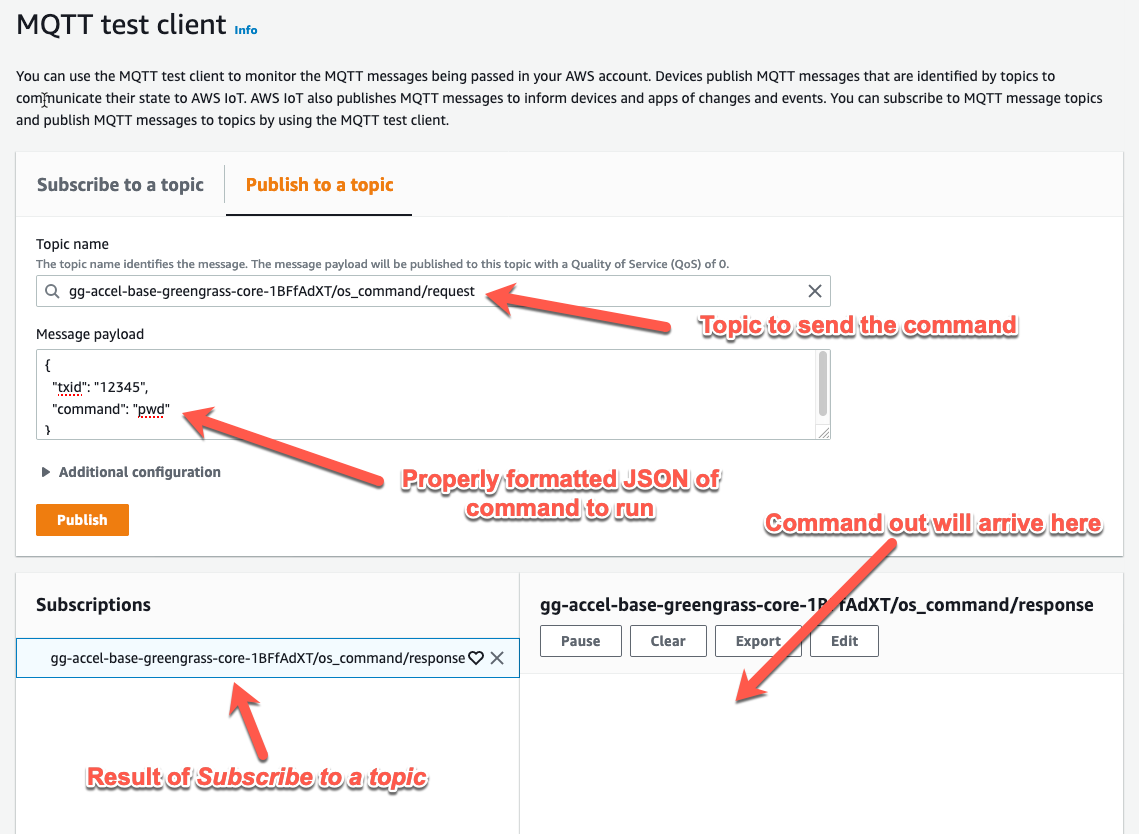
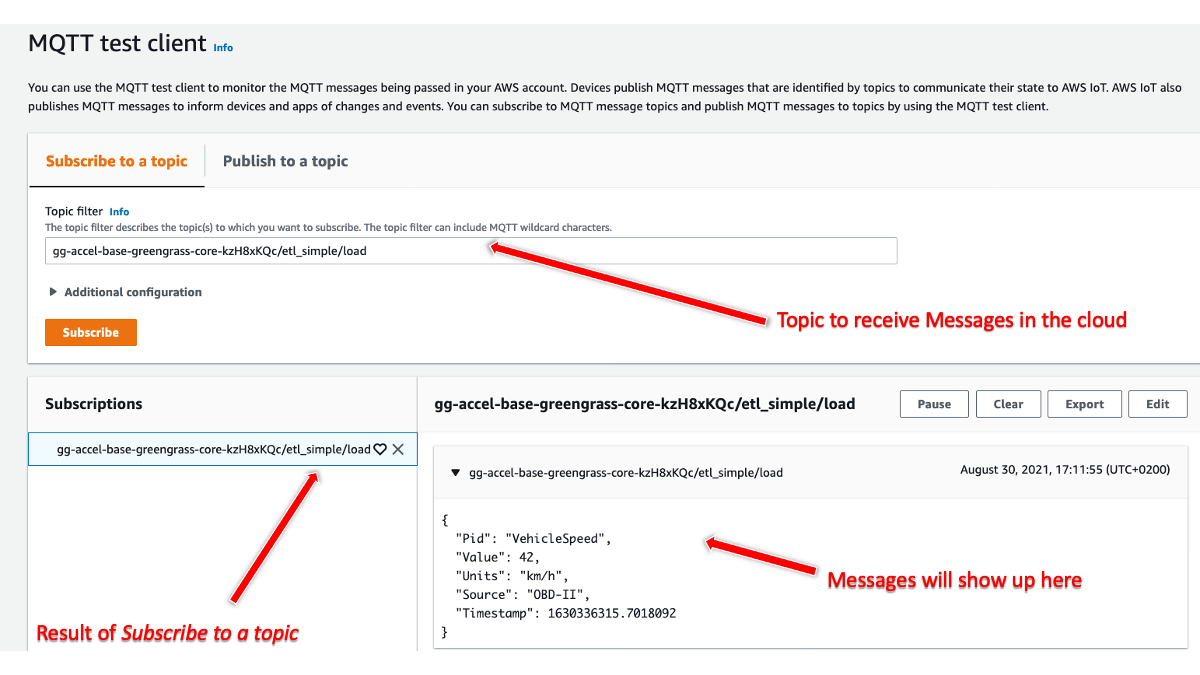
updated READMEs for ETL - missing: Design Pattern in ETL-Simple Readme

diff --git a/v2/etl_simple/README.md b/v2/etl_simple/README.md
@@ -1,27 +1,29 @@
-# AWS IoT Greengrass V2 Operating System Command Component
+# AWS IoT Greengrass V2 Extract, Transform, and Load Simplified Deployment
 
-This component, Operating System Command (OS Command), extends the capabilities of the [base](../base) accelerator stack by adding a new thing group, Greengrass component, and Greengrass deployment for the existing Greengrass core. The functionality of the `ggAccel.os_command` component provides the ability to publish an operating system command via an MQTT message to a topic on AWS IoT Core, have it execute on the Greengrass core device, and return the commands output to a different MQTT topic. By publishing the command on topic and subscribing to the response on another topic, you can remotely issue commands and receive results via the cloud.
+This deployment, Extract, Transform, and Load Simplified (ETL Simple), extends the capabilities of the [base](../base) accelerator stack by adding a new thing group, three Greengrass components, and Greengrass deployment for the existing Greengrass core.
+
+The three components are called `ggAccel.etl_simple.extract` (Extract Component), `ggAccel.etl_simple.transform` (Transform Component), and `ggAccel.etl_simple.load` (Load Component). The Extract component reads example OBD II messages from the file `events1.txt` and publishes them to a local topic. The Transform component reads from that topic, transforms the message into human-readable JSON messages and publishes them locally using [Interprocess Communication](https://docs.aws.amazon.com/greengrass/v2/developerguide/interprocess-communication.html). The Load Process reads from that topic and publishes the messages to AWS IoT Core.
 
 This is deployed as a [nested stack](https://docs.aws.amazon.com/AWSCloudFormation/latest/UserGuide/using-cfn-nested-stacks.html) where the root stack is the base implementation accelerator. This stack creates the following resources:
 
 - Thing group - A group specific to this accelerator, the existing thing is added and targeted for the new component
 - IoT policy - An AWS IoT policy attached to the existing certificate extending the ability to publish and subscribe on the topics used by the component
-- Greengrass component - The application logic (recipe and artifacts) deployable to Greengrass cores. Part of the Greengrass deployment.
-- Greengrass deployment - The Greengrass component targeted for the new Thing group.
+- Three Greengrass component - The application logic (recipe and artifacts) for each component deployable to Greengrass cores. Part of the Greengrass deployment.
+- Greengrass deployment - The Greengrass components targeted for the new Thing group.
 
-Once this is fully deployed, the Greengrass core device will receive and deploy the component immediately or when next started.
-
-
+Once this is fully deployed, the Greengrass core device will receive and deploy the components immediately or when next started.
 
 > **NOTE:** This accelerator is intended for educational use only and should not be used as the basis for production workloads without fully reviewing the component and it's artifacts.
 
-# OS Command Use Case
+# Extract, Transform, and Load Use Case
 
-This accelerator demonstrates the capability for a local Python application to receive commands from the Cloud, run them locally, and then publish back the results to another topic in the Cloud. It demonstrates Cloud command and control capability to a remote device, the ability for a local application to interact with IPC topics, execute commands locally, and response to successful or unsuccessful commands.
+Imagine we want to collect from a vehicle multiple times per-second, transform and compute into a friendly formation, and when connected, send the messages in the cloud. As the vehicle travels into areas without Internet coverage, we want to ensure the local data collection continues and messages are ultimately stored in the cloud once coverage is restored.
 
-In practical operation, it can be used to query the status of host operating system, download and upgrade software, or any other activities normally performed from the host operating systems command line interface (CLI). It can also be used as an example for performing command and control operations originating from the cloud and taking local action.
+In this simplified example, the `events1.txt` file contains the messages and acts, together with the Extract Component, as OBD-II data source. The content of every messages is transformed from the 8-bye OBD-II values (example: 1562433539.743263 7E8 0341055600000000)into a readable JSON formatted message.
 
-# Design Pattern
+Finally, individual records are to AWS IoT Core via MQTT.
+
+# Design Pattern - TODO
 
 The following architecture shows the deployment of this accelerator (aligned to the base implementation).
 
@@ -35,7 +37,7 @@ The following architecture shows the deployment of this accelerator (aligned to 
 # Folder Structure
 
 ```text
-os_cmd
+etl_simple
 ├── README.md             <--- this file
 ├── cdk                   <--- builds and deploys CloudFormation to cloud
 │   ├── bin
@@ -49,7 +51,7 @@ os_cmd
 │   └── tsconfig.json
 ```
 
-As a nested stack, this uses CDK to build and deploy the resources. As it uses CDK constructs from the `base` stack via relative paths, do not move this directory without first updating the paths in `lib/OsCommandStack.ts` first.
+As a nested stack, this uses CDK to build and deploy the resources. As it uses CDK constructs from the `base` stack via relative paths, do not move this directory without first updating the paths in `lib/EtlSimpleStack.ts`.
 
 If using Docker, continue to use the `base/docker` directory for starting and stopping the container.
 
@@ -67,16 +69,16 @@ The following is a list of prerequisites to deploy the accelerator:
 
 1. The base implementation stack must be deployed. It is also recommended to configure and test the base implementation before deploying this stack.
 
-## Create and Launch the Accelerator Locally
+## Create and Launch the Accelerator
 
 This approach uses your local system for installation and running the accelerator, but the same commands can be used if testing from AWS Cloud9.
 
-1. Change into the `v2/os_cmd/cdk/` directory for the accelerator, then build and deploy the CloudFormation stack:
+1. Change into the `v2/etl_simple/cdk/` directory for the accelerator, then build and deploy the CloudFormation stack:
 
    > **NOTE:** The first time `cdk deploy` is run, it will take longer as there are Docker images required to build some of the resources. You will see Docker-related messages in your terminal session. Subsequent runs will only take a few additional seconds.
 
    ```bash
-   cd aws-iot-greengrass-accelerators/v2/os_cmd/cdk
+   cd aws-iot-greengrass-accelerators/v2/etl_simple/cdk
    npm install
    npm run build
    # replace PROFILE_NAME with your specific AWS CLI profile that has username and region defined.
@@ -84,146 +86,27 @@ This approach uses your local system for installation and running the accelerato
    cdk --profile PROFILE_NAME deploy --context baseStack="gg-accel-base"
    ```
 
-   The result of a successful deployment will look like this:
+   The result of a successful deployment will look similar to this:
 
    ```bash
-   ✅  gg-accel-os-command
+   ✅  gg-accel-etl-simple
    
    Outputs:
-   gg-accel-os-command.RequestTopic = gg-accel-base-greengrass-core-1BFfAdXT/os_command/request
-   gg-accel-os-command.ResponseTopic = gg-accel-base-greengrass-core-1BFfAdXT/os_command/response
+   gg-accel-etl-simple.CloudPublishTopic = gg-accel-base-greengrass-core-kzH8xKQc/etl_simple/load
    Stack ARN:
-   arn:aws:cloudformation:us-west-2:123456789012:stack/gg-accel-os-command/82df9e50-fa21-11eb-ba37-02268e8a52f9
+   arn:aws:cloudformation:eu-central-1:594598670825:stack/gg-accel-etl-simple/870a6f50-09a3-11ec-a262-0ad1fb9d7ee6
    ```
 
-At this point the CloudFormation stack is deployed and if the Greengrass core is running, it will have received the new deployment. Copy the _Request_ and _Response_ topics for use when sending and receiving MQTT messages.
+At this point the CloudFormation stack is deployed and if the Greengrass core is running, it will have received the new deployment. Copy the _CloudPublishTopic_ topic for use when processing the MQTT messages in the Cloud.
 
 ## Investigating the Accelerator
 
 Once deployed, you can use either Test client from the AWS IoT Core console or via an MQTT client where you can publish and subscribe to topics. The examples below use the Test client.
 
-First, create a *subscription* to the `core-name/os_command/response` topic from the previous section. This subscription will allow us to receive the *response* from an issues command. Next, select the publish tab and paste in`.../os_command/request. Finally, enter a command and select Publish.
+Create a *subscription* to the `core-name/etl_simple/load` topic from the previous section. This subscription will allow us to receive the *transformed message* from the locally running processes.
 
 ![](docs/test_client.png)
 
-
-
-With all of this setup, you can send commands to the component and receive the response. Here are a couple commands (message payloads) to monitor how the component deals with different attributes and format such as invalid JSON.
-
-### General command
-
-This command will return the current working directory of the component.
-
-**Message payload**
-
-```json
-{
-  "txid": "12345",
-  "command": "pwd"
-}
-```
-
-**Command response**
-
-```json
-{
-  "response": "/greengrass/v2/work/ggAccel.os_command\n",
-  "txid": "12345",
-  "return_code": 0
-}
-```
-
-
-
-### Long response command (JSON)
-
-This command will return the contents of a directory listing in `/etc` as a serialized JSON string.
-
-**Message payload**
-
-```json
-{
-  "txid": "12345",
-  "command": "ls -ltr /etc"
-}
-```
-
-**Command response**
-
-```json
-{
-  "response": "total 1128\n-rw-r--r-- 1 root root 670293 Jun  7  2013 services\n-rw-r--r-- 1 root root    233 Jun  7  2013 printcap\n...CONTENT_SHORTENED---------- 1 root root    314 Aug 16 19:49 gshadow\n",
-  "txid": "12345",
-  "return_code": 0
-}
-```
-
-
-
-### Long response command (TEXT)
-
-This command will return the contents of a directory listing in `/etc` in human readable output.
-
-**Message payload**
-
-```json
-{
-  "txid": "12345",
-  "command": "ls -ltr /etc",
-  "format": "text"
-}
-```
-
-**Command response**
-
-```text
-TX_ID: 12345
-RETURN_CODE: 0
-RESPONSE:
-total 1128
--rw-r--r-- 1 root root 670293 Jun  7  2013 services
--rw-r--r-- 1 root root    233 Jun  7  2013 printcap
--rw-r--r-- 1 root root      0 Jun  7  2013 motd
-...CONTENT_SHORTENED
----------- 1 root root    314 Aug 16 19:49 gshadow
-```
-
-### Invalid command
-
-This command will return an error for missing attributes.
-
-**Message payload**
-
-```json
-{
-  "message": "Hello from AWS IoT Core"
-}
-```
-
-**Command response**
-
-```json
-{
-  "response": "The attributes 'txid' and 'command' missing from request",
-  "return_code": 255
-}
-```
-
-
-
-As you run there and other commands, review the log file output. Also, the main Python code located here:
-
-````
-aws-iot-greengrass-accelerators/v2/base/cdk/components/ggAccel.example.HelloWorld/artifacts/ggAccel.example.HelloWorld/1.0.0/hello_world.py
-````
-
-Has additional details on the `format` and `timeout` attributes.
-
-By investigating the component's recipe file, artifacts, and and the commands that create and publish the component via the CDK, you should now have a better understanding of:
-
-- Command and control from AWS IoT Core to a running component on Greengrass
-- How the component can interact with local system resources
-- Using language dependencies either at the operation system level or within the artifact folder to develop feature rich components
 
 ## Accelerator Cleanup
 
@@ -238,7 +121,7 @@ To stop and completely remove this accelerator, follow these steps:
 1. With the container stopped, change to the component's CDK directory and issue the command to _destroy_ the CloudFormation stack:
 
    ```bash
-   cd aws-iot-greengrass-accelerators/v2/os_cmd/cdk
+   cd aws-iot-greengrass-accelerators/v2/etl_simple/cdk
    # For Cloud9
    cdk destroy --context baseStack="gg-accel-base"
    # For locally running (replace PROFILE_NAME with one used to create stack)
@@ -246,9 +129,9 @@ To stop and completely remove this accelerator, follow these steps:
    cdk destroy --profile PROFILE_NAME --context baseStack="gg-accel-base"
    ```
 
-   > **NOTE:** This will only destroy the `os_cmd` component resources and not the base stack. Also, since the component has already been deployed to the Greengrass core, it will continue to run unless it is locally delete via the `greengrass-cli`, or the Greengrass configuration is reset.
+   > **NOTE:** This will only destroy the `etl_simple` component resources and not the base stack. Also, since the component has already been deployed to the Greengrass core, it will continue to run unless it is locally delete via the `greengrass-cli`, or the Greengrass configuration is reset.
 
-   At this point, all `os_cmd` resources have been deleted.
+   At this point, all `etl_simple` resources have been deleted.
 
 1. Review any CloudWatch Logs log groups and delete these if needed.
 
@@ -263,4 +146,4 @@ In its current form, no. This component is not suitable for production workloads
 
 ## Implementation Notes
 
-The OS Command component is a Python based script that uses the IPC mechanism of the Nucleus to subscribe and publish to set topics in AWS IoT Core. It is a long running process that will process each individual message separately.
+The ETL Simple components are Python based scripts that uses the IPC mechanism of the Nucleus to subscribe and publish to set topics locally and in AWS IoT Core. They are long running process that will process each individual message separately.

diff --git a/README.md b/README.md
@@ -14,6 +14,8 @@ The current V2 accelerators are:
   - This accelerator deploys a single AWS IoT Greengrass core device as an AWS CDK constructed AWS CloudFormation stack, with all required AWS IoT, IAM, and AWS IoT Greengrass resources. It also creates a single _Hello World_ [component](https://docs.aws.amazon.com/greengrass/v2/developerguide/manage-components.html) and [deployment](https://docs.aws.amazon.com/greengrass/v2/developerguide/manage-deployments.html) for testing purposes.
 - [Operating System Command Execution](v2/os_cmd)
   - This accelerator deploys additional functionality on to the _Base Implementation_ stack to demonstrate sending an operating system command as an MQTT message from AWS IoT Core, running the command locally, and publishing back the command output to another MQTT topic in the cloud.
+- [Extract, Transform, and Load  - Simple Implementation](v2/etl_simple)
+  - This accelerator deploys additional functionality on to the _Base Implementation_ stack to demonstrate how to extract, transform, and load (ETL) data from a local device to the cloud. This accelerator breaks the three steps into discrete processes, decoupled by using [Interprocess Communcation](https://docs.aws.amazon.com/greengrass/v2/developerguide/interprocess-communication.html). 
 
 ## Accelerators for AWS IoT Greengrass V1
 

diff --git a/v2/README.md b/v2/README.md
@@ -10,3 +10,5 @@ Once the _base_ has been deployed and tested, you can then select one of the oth
   - This accelerator deploys a single AWS IoT Greengrass core device as an AWS CDK constructed AWS CloudFormation stack, with all required AWS IoT, IAM, and AWS IoT Greengrass resources. It also creates a single _Hello World_ [component](https://docs.aws.amazon.com/greengrass/v2/developerguide/manage-components.html) and [deployment](https://docs.aws.amazon.com/greengrass/v2/developerguide/manage-deployments.html) for testing purposes.
 - [Operating System Command Execution](os_cmd)
   - This accelerator deploys additional functionality on to the _Base Implementation_ stack to demonstrate sending an operating system command as an MQTT message from AWS IoT Core, running the command locally, and publishing back the command output to another MQTT topic in the cloud.
+- [Extract, Transform, and Load  - Simple Implementation](etl_simple)
+  - This accelerator deploys additional functionality on to the _Base Implementation_ stack to demonstrate how to extract, transform, and load (ETL) data from a local device to the cloud. This accelerator breaks the three steps into discrete processes, decoupled by using [Interprocess Communcation](https://docs.aws.amazon.com/greengrass/v2/developerguide/interprocess-communication.html). 
